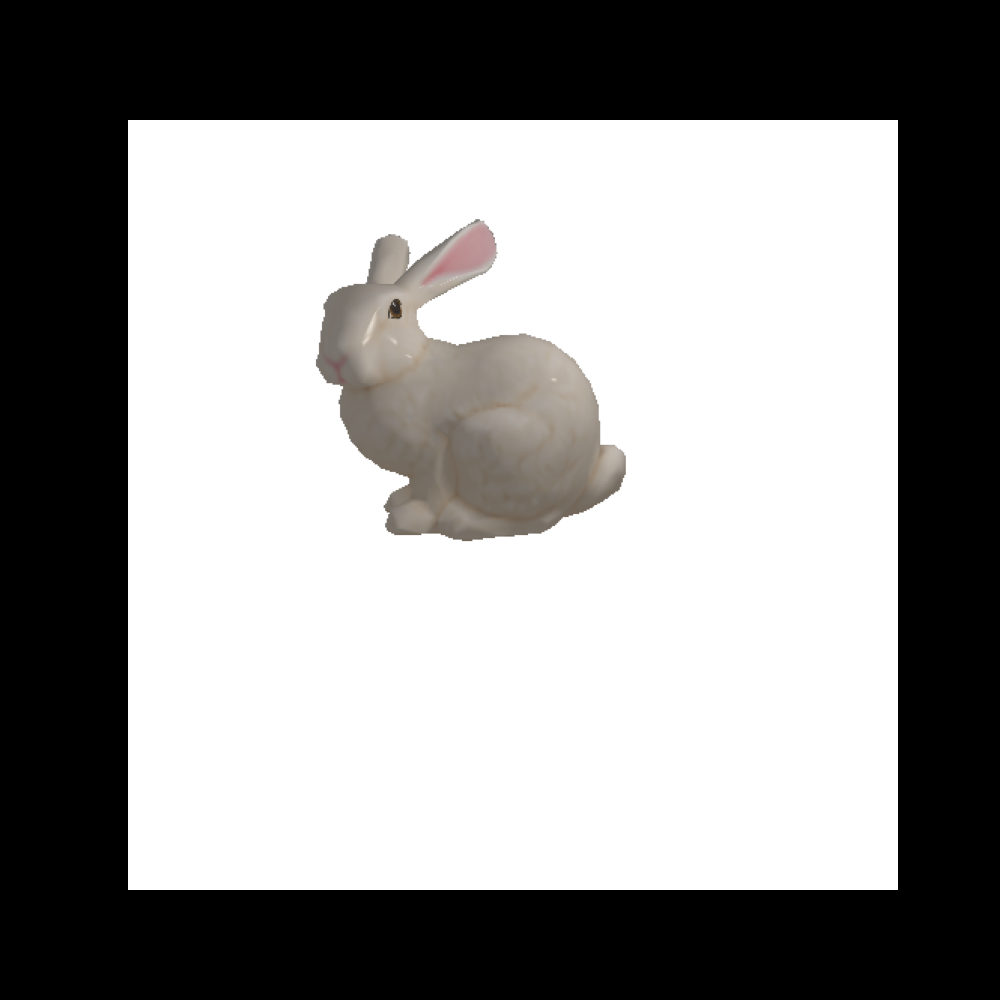
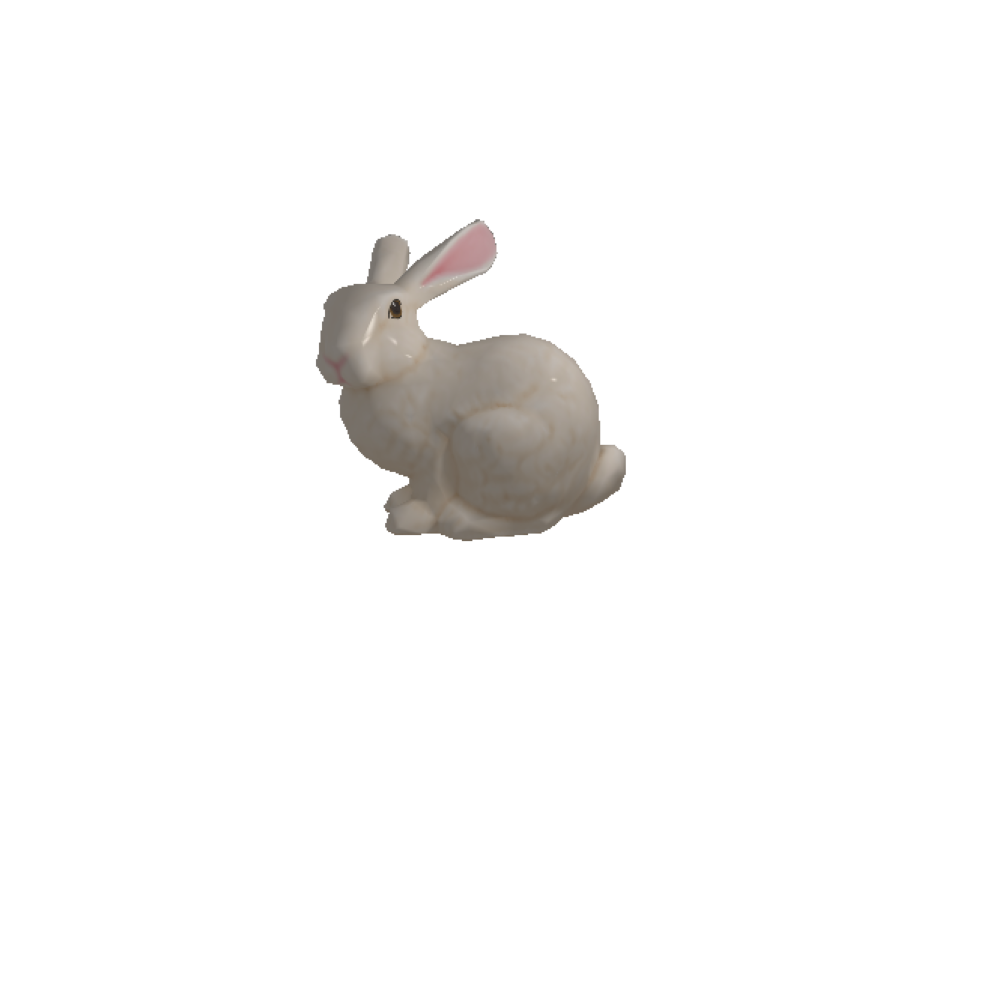
now it looks okay,except the background

diff --git a/homeworks/constantin/6-dda1/main.py b/homeworks/constantin/6-dda1/main.py
@@ -41,6 +41,7 @@ print("Done loading mesh")
 
 
 # TODO: render the loaded mesh using the already imported classes and functions
+# based on https://pytorch3d.org/tutorials/render_textured_meshes
 
 # ---------------------------------
 # Initialize a camera.
@@ -73,7 +74,7 @@ materials = Materials(
 )
 
 # black background
-#background_color: Sequence = (1.0, 1.0, 1.0) 
+# background_color = Sequence(1.0, 1.0, 1.0) 
 
 # Create a Phong renderer by composing a rasterizer and a shader. The textured Phong shader will 
 # interpolate the texture uv coordinates for each vertex, sample from a texture image and 
@@ -98,6 +99,7 @@ plt.imshow(texture_image.squeeze().cpu().numpy())
 plt.axis("off");"""
 # render the textured mesh
 images = renderer(mesh,lights=lights,materials=materials)
+plt.gcf().set_facecolor('black')
 plt.figure(figsize=(10, 10))
 plt.imshow(images[0, ..., :3].cpu().numpy())
 plt.axis("off");
@@ -106,7 +108,6 @@ print("Done rendering")
 
 plt.grid('off')
 plt.axis('off')
-plt.gcf().set_facecolor('black')
 plt.savefig('render.png')
 
 print("Done plotting")
